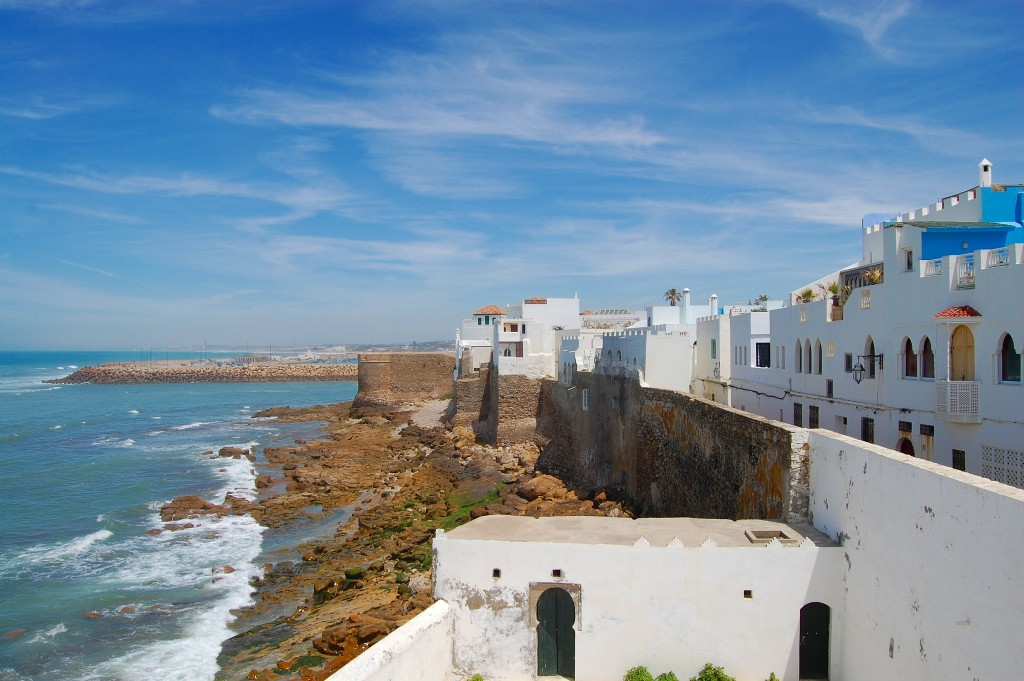
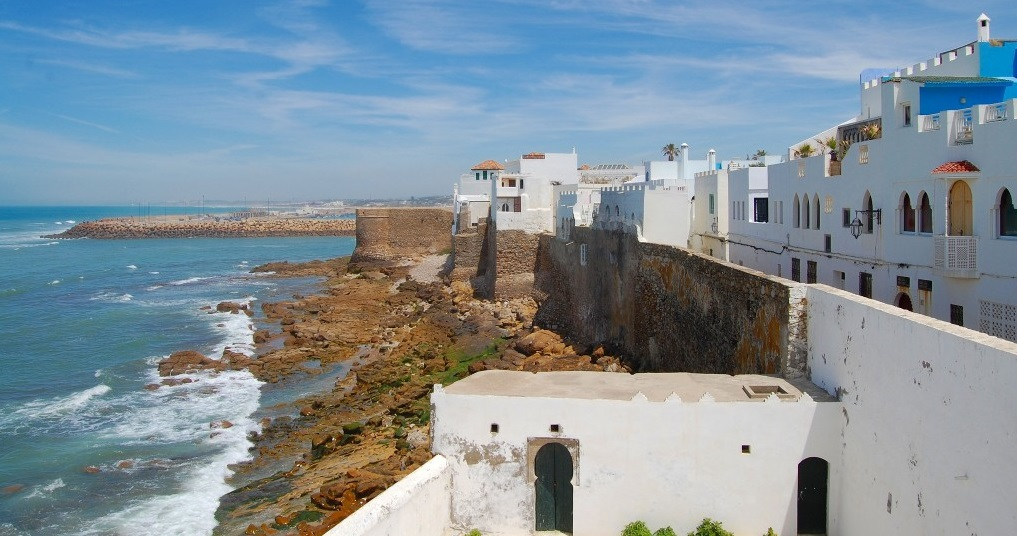
update!

diff --git a/places.html b/places.html
@@ -62,10 +62,7 @@
   </div><!-- /.container-fluid -->
 </nav>
 
-<div class="container">
-  <div class="jumbotron" >
 
-	<div class="row container container-fluid">
 
 		<div class="col-md-12 col-sm-12 col-xs-12" id="element">
 			<section>
@@ -76,14 +73,15 @@
       			&nbsp; &nbsp; Ouarzazate may look familiar to many, having featured in numerous Hollywood films such as Lawrence of Arabia, Gladiator and The Mummy. It’s not hard to see why. The town and its surroundings are incredibly scenic, sprawling over a dramatic natural plateau, and bordered by the Atlas mountains and the desert. The town itself is notable for its numerous examples of beautiful Berber kasbahs, including the Ait Benhaddou, a wonderfully preserved quarter within Ouarzazate and now a UNESCO World Heritage Site. Also worth seeing is Atlas Studios, where Morocco is transformed into a mini-Egypt with the sets and props from many of the area’s most famous films.
 						</p>
 						<center>
-						<img id="image" src="images/ouarzazat.jpg"></img>
+						<img id="image" src="images/ouarzazat.jpg" style="height: 300px; width: 610px;"></img>
 							</br>
 							</br>
-						<input id = "btnShow" type="button" class="btn btn-warning" value="See Map"/>
+						<input id = "btnShow" type="button" class="btn btn-danger" value="See Map"/>
 						<div id="dialog" style="display: none">
 						<div id="dvMap" style="height: 380px; width: 580px;">
 								</br>
 						</center>
+							</br>
 						</div>
 						</div>
 					</section>
@@ -97,21 +95,22 @@
 							<p>
 	      			&nbsp; &nbsp; A gorgeous seaside town on the northern coast of the country, Asilah has a rich and varied history. With roots as far back as the 16th century, when it was on the main trade route used by the Phoenicians, it was later captured by the Portuguese before coming under Moroccan rule in the 17th century. Each successive culture and society has left its mark on the town, making modern day Asilah a fascinating display of Morocco’s unique heritage. A Portuguese fortress leans precariously over the cliffs, while charming blue and white Moroccan houses line the streets.
 							</p>
-							<center><img id="image" src="images/asilah.jpg"></img>
+							<center><img id="image" src="images/asilah.jpg" style="height: 380px; width: 580px;"></img>
 									</br></br>
-							<input id = "btnShow2" type="button" class="btn btn-warning" value="See Map"/>
+							<input id = "btnShow2" type="button" class="btn btn-danger" value="See Map"/>
 							<div id="dialog2" style="display: none">
 							<div id="dvMap2" style="height: 380px; width: 580px;">
 								</br>
 							</center>
+								</br>
 							</div>
 							</div>
 				</section>
 				</div>
 
-		</div>
-	</div>
-	</div>
+
+
+
 
 
 <script type="text/javascript" src="http://maps.googleapis.com/maps/api/js?sensor=false"></script>
